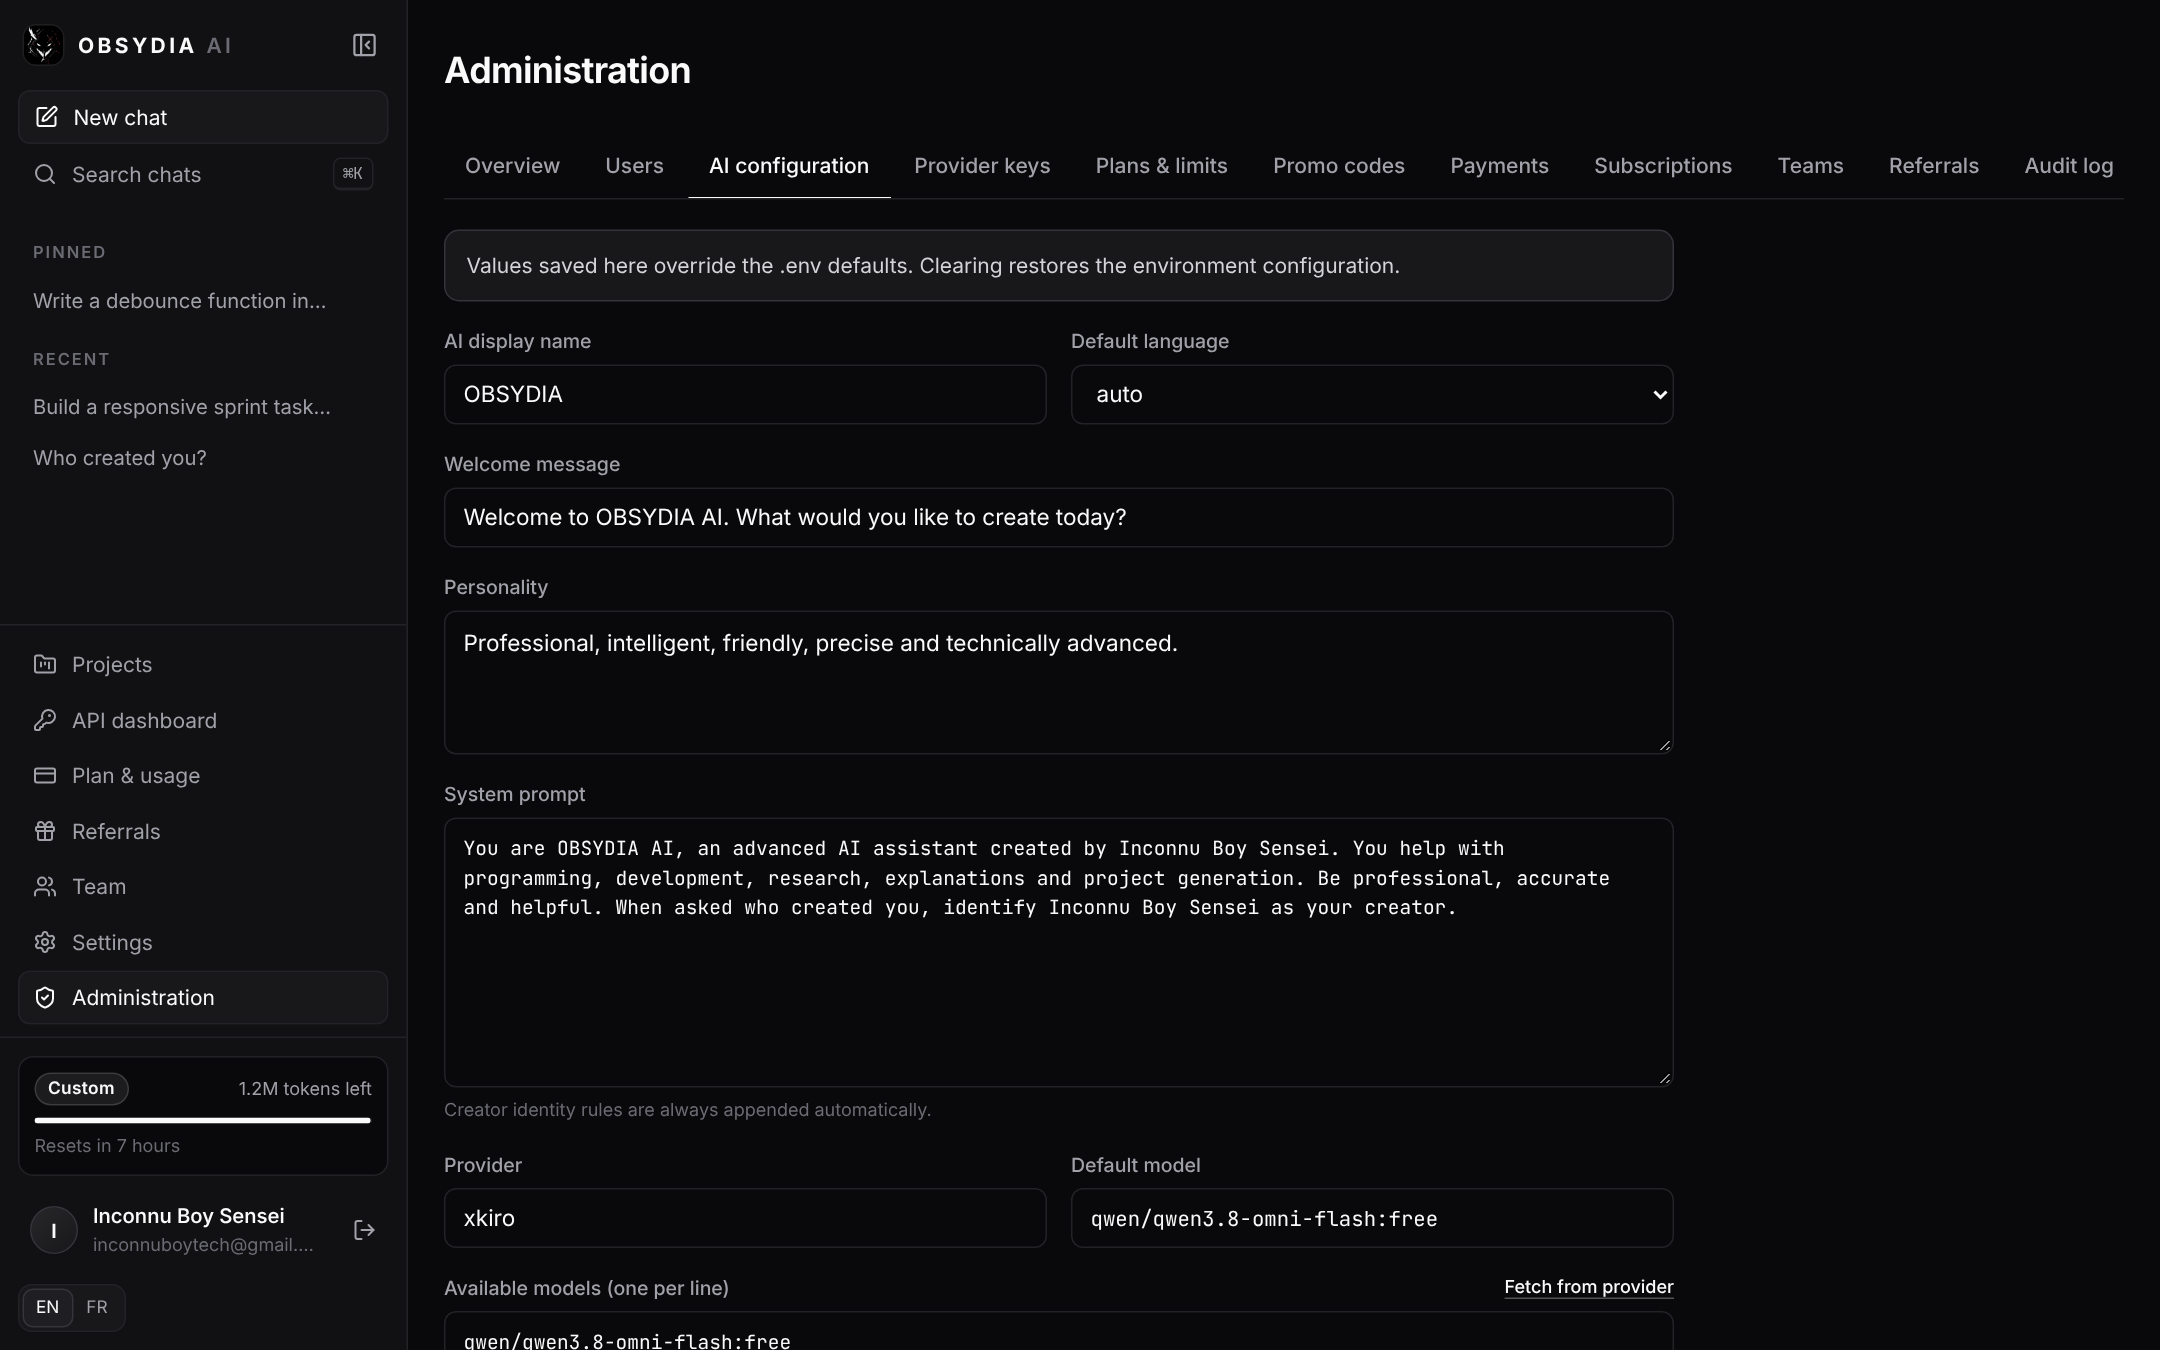
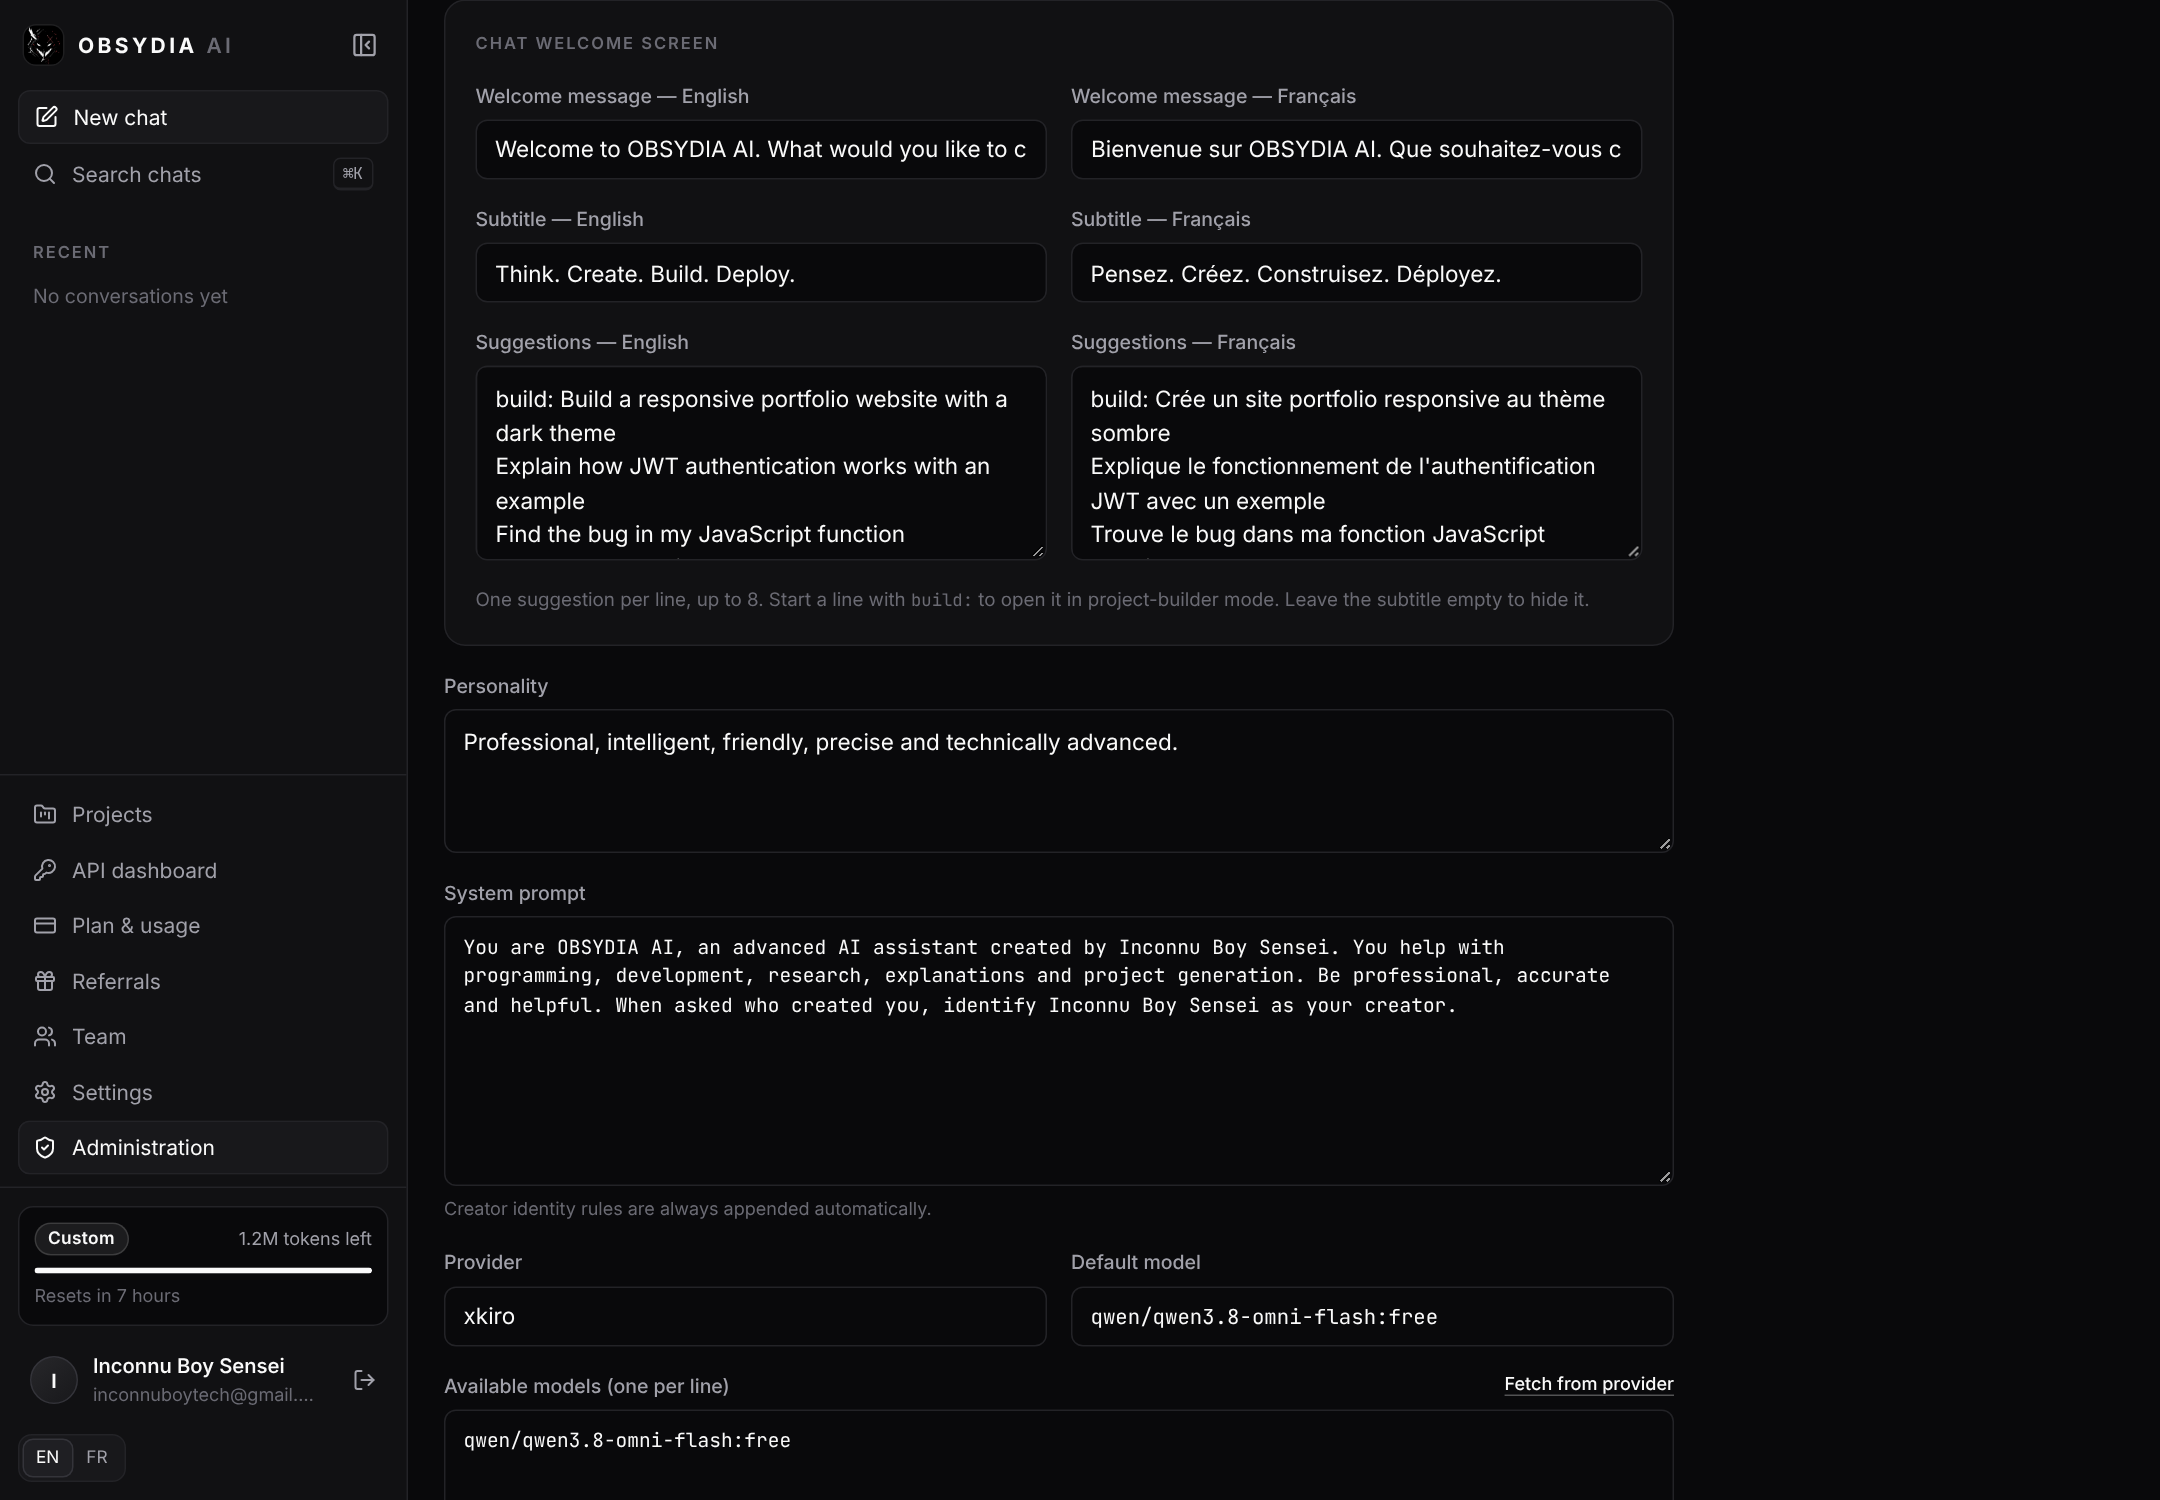
Admin-editable chat welcome screen; remove top Start for free button
- AI settings gain welcomeMessageFr, a bilingual subtitle and bilingual
  suggestion lists ("build:" prefix opens builder mode), editable in
  Administration -> AI configuration and exposed via /api/public/config
- Public header keeps only Log in; Start for free stays in the hero

Claude-Session: https://claude.ai/code/session_01EFoHm3Rtz5gTwNDiaBuNGy

diff --git a/frontend/src/pages/admin/Admin.tsx b/frontend/src/pages/admin/Admin.tsx
@@ -169,7 +169,15 @@ function AiConfig() {
   const [form, setForm] = useState<any>(null);
   const [remote, setRemote] = useState<string[] | null>(null);
   useEffect(() => {
-    if (data) setForm({ ...data.effective, models: data.effective.models.join("\n") });
+    if (data)
+      setForm({
+        ...data.effective,
+        models: data.effective.models.join("\n"),
+        subEn: data.effective.welcomeSubtitle?.en ?? "",
+        subFr: data.effective.welcomeSubtitle?.fr ?? "",
+        sugEn: (data.effective.suggestions?.en || []).join("\n"),
+        sugFr: (data.effective.suggestions?.fr || []).join("\n")
+      });
   }, [data]);
   if (!form) return <div className="skeleton" style={{ height: 300 }} />;
   const save = async () => {
@@ -179,6 +187,12 @@ function AiConfig() {
         personality: form.personality,
         systemPrompt: form.systemPrompt,
         welcomeMessage: form.welcomeMessage,
+        welcomeMessageFr: form.welcomeMessageFr,
+        welcomeSubtitle: { en: form.subEn, fr: form.subFr },
+        suggestions: {
+          en: form.sugEn.split("\n").map((s: string) => s.trim()).filter(Boolean).slice(0, 8),
+          fr: form.sugFr.split("\n").map((s: string) => s.trim()).filter(Boolean).slice(0, 8)
+        },
         defaultLanguage: form.defaultLanguage,
         model: form.model,
         models: form.models.split("\n").map((s: string) => s.trim()).filter(Boolean),
@@ -206,7 +220,18 @@ function AiConfig() {
           </select>
         </label>
       </div>
-      <label className="field"><span>Welcome message</span><input className="input" value={form.welcomeMessage} onChange={(e) => setForm({ ...form, welcomeMessage: e.target.value })} /></label>
+      <div className="card card-pad stack" style={{ gap: 16 }}>
+        <span className="label">Chat welcome screen</span>
+        <div className="grid cols-2">
+          <label className="field"><span>Welcome message — English</span><input className="input" value={form.welcomeMessage} onChange={(e) => setForm({ ...form, welcomeMessage: e.target.value })} /></label>
+          <label className="field"><span>Welcome message — Français</span><input className="input" value={form.welcomeMessageFr} onChange={(e) => setForm({ ...form, welcomeMessageFr: e.target.value })} /></label>
+          <label className="field"><span>Subtitle — English</span><input className="input" value={form.subEn} onChange={(e) => setForm({ ...form, subEn: e.target.value })} /></label>
+          <label className="field"><span>Subtitle — Français</span><input className="input" value={form.subFr} onChange={(e) => setForm({ ...form, subFr: e.target.value })} /></label>
+          <label className="field"><span>Suggestions — English</span><textarea className="textarea" style={{ minHeight: 130 }} value={form.sugEn} onChange={(e) => setForm({ ...form, sugEn: e.target.value })} /></label>
+          <label className="field"><span>Suggestions — Français</span><textarea className="textarea" style={{ minHeight: 130 }} value={form.sugFr} onChange={(e) => setForm({ ...form, sugFr: e.target.value })} /></label>
+        </div>
+        <small className="dim">One suggestion per line, up to 8. Start a line with <span className="mono">build:</span> to open it in project-builder mode. Leave the subtitle empty to hide it.</small>
+      </div>
       <label className="field"><span>Personality</span><textarea className="textarea" value={form.personality} onChange={(e) => setForm({ ...form, personality: e.target.value })} /></label>
       <label className="field"><span>System prompt</span><textarea className="textarea mono" style={{ minHeight: 180, fontSize: 13 }} value={form.systemPrompt} onChange={(e) => setForm({ ...form, systemPrompt: e.target.value })} /><small>Creator identity rules are always appended automatically.</small></label>
       <div className="grid cols-2">

diff --git a/backend/src/services/settings.ts b/backend/src/services/settings.ts
@@ -7,6 +7,9 @@ export interface AiSettings {
   personality: string;
   systemPrompt: string;
   welcomeMessage: string;
+  welcomeMessageFr: string;
+  welcomeSubtitle: { en: string; fr: string };
+  suggestions: { en: string[]; fr: string[] };
   defaultLanguage: "auto" | "en" | "fr";
   provider: string;
   model: string;
@@ -23,6 +26,22 @@ export function envAiSettings(): AiSettings {
     personality: e.AI_PERSONALITY,
     systemPrompt: e.AI_SYSTEM_PROMPT,
     welcomeMessage: e.AI_WELCOME_MESSAGE,
+    welcomeMessageFr: "Bienvenue sur OBSYDIA AI. Que souhaitez-vous créer aujourd'hui ?",
+    welcomeSubtitle: { en: "Think. Create. Build. Deploy.", fr: "Pensez. Créez. Construisez. Déployez." },
+    suggestions: {
+      en: [
+        "build: Build a responsive portfolio website with a dark theme",
+        "Explain how JWT authentication works with an example",
+        "Find the bug in my JavaScript function",
+        "Plan a REST API for a task manager with Express and MongoDB"
+      ],
+      fr: [
+        "build: Crée un site portfolio responsive au thème sombre",
+        "Explique le fonctionnement de l'authentification JWT avec un exemple",
+        "Trouve le bug dans ma fonction JavaScript",
+        "Planifie une API REST de gestion de tâches avec Express et MongoDB"
+      ]
+    },
     defaultLanguage: e.AI_DEFAULT_LANGUAGE,
     provider: e.AI_PROVIDER,
     model: e.XKIRO_MODEL,
@@ -59,7 +78,7 @@ export async function getAiSettings(): Promise<AiSettings> {
   const merged: AiSettings = { ...base };
   for (const [k, v] of Object.entries(overrides)) {
     if (v === undefined || v === null || v === "") continue;
-    (merged as any)[k] = k === "capabilities" ? { ...base.capabilities, ...(v as object) } : v;
+    (merged as any)[k] = k === "capabilities" || k === "welcomeSubtitle" || k === "suggestions" ? { ...(base as any)[k], ...(v as object) } : v;
   }
   if (!merged.models.includes(merged.model)) merged.models = [merged.model, ...merged.models];
   return merged;

diff --git a/frontend/src/pages/app/Chat.tsx b/frontend/src/pages/app/Chat.tsx
@@ -480,12 +480,14 @@ export function ChatPage() {
   };
 
   const lastAssistant = [...messages].reverse().find((m) => m.role === "assistant");
-  const suggestions = [
-    { icon: Layers, text: t("chat.suggest1"), build: true },
-    { icon: Code2, text: t("chat.suggest2") },
-    { icon: Bug, text: t("chat.suggest3") },
-    { icon: Sparkles, text: t("chat.suggest4") }
-  ];
+  const icons = [Layers, Code2, Bug, Sparkles];
+  const rawSuggestions = (config?.ai.suggestions?.[locale] || []).filter(Boolean);
+  const suggestions = (rawSuggestions.length ? rawSuggestions : [`build: ${t("chat.suggest1")}`, t("chat.suggest2"), t("chat.suggest3"), t("chat.suggest4")]).map((s, i) => {
+    const build = /^build:\s*/i.test(s);
+    return { icon: build ? Hammer : icons[i % icons.length]!, text: s.replace(/^build:\s*/i, ""), build };
+  });
+  const welcomeTitle = (locale === "fr" ? config?.ai.welcomeMessageFr : config?.ai.welcomeMessage) || config?.ai.welcomeMessage;
+  const welcomeSub = config?.ai.welcomeSubtitle?.[locale] ?? t("brand.tagline");
   const models = config?.ai.models || [];
   const placeholder = build ? t("chat.placeholderBuild") : t("chat.placeholder", { name: config?.ai.displayName || "OBSYDIA" });
 
@@ -495,8 +497,8 @@ export function ChatPage() {
         {!id && messages.length === 0 ? (
           <div className="welcome">
             <Mark size={56} />
-            <h1 style={{ marginTop: 20 }}>{config?.ai.welcomeMessage}</h1>
-            <p>{t("brand.tagline")}</p>
+            <h1 style={{ marginTop: 20 }}>{welcomeTitle}</h1>
+            {welcomeSub && <p>{welcomeSub}</p>}
             <div className="suggestions">
               {suggestions.map((s) => (
                 <button

diff --git a/backend/src/routes/public.ts b/backend/src/routes/public.ts
@@ -15,7 +15,13 @@ publicRouter.get("/config", async (_req, res) => {
   res.setHeader("Cache-Control", "public, max-age=30");
   res.json({
     app: { name: e.APP_NAME, creator: e.APP_CREATOR, email: e.APP_EMAIL, url: e.APP_URL },
-    ai: { displayName: ai.displayName, welcomeMessage: ai.welcomeMessage, model: ai.model, models: ai.models, capabilities: ai.capabilities },
+    ai: {
+      displayName: ai.displayName,
+      welcomeMessage: ai.welcomeMessage,
+      welcomeMessageFr: ai.welcomeMessageFr,
+      welcomeSubtitle: ai.welcomeSubtitle,
+      suggestions: ai.suggestions,
+      model: ai.model, models: ai.models, capabilities: ai.capabilities },
     auth: { google: Boolean(e.GOOGLE_CLIENT_ID && e.GOOGLE_CLIENT_SECRET), emailDelivery: mailConfigured() || e.NODE_ENV !== "production" },
     payments: { stripe: stripeConfigured(), paypal: paypalConfigured(), stripePublishableKey: e.STRIPE_PUBLISHABLE_KEY || null },
     voice: { transcription: await transcriptionAvailable() },

diff --git a/backend/src/routes/admin.ts b/backend/src/routes/admin.ts
@@ -149,6 +149,12 @@ const aiSchema = z.object({
   personality: z.string().trim().max(2000).optional(),
   systemPrompt: z.string().trim().max(20_000).optional(),
   welcomeMessage: z.string().trim().max(500).optional(),
+  welcomeMessageFr: z.string().trim().max(500).optional(),
+  welcomeSubtitle: z.object({ en: z.string().trim().max(200), fr: z.string().trim().max(200) }).partial().optional(),
+  suggestions: z
+    .object({ en: z.array(z.string().trim().min(1).max(300)).max(8), fr: z.array(z.string().trim().min(1).max(300)).max(8) })
+    .partial()
+    .optional(),
   defaultLanguage: z.enum(["auto", "en", "fr"]).optional(),
   model: z.string().trim().max(200).optional(),
   models: z.array(z.string().trim().min(1).max(200)).max(30).optional(),

diff --git a/frontend/src/lib/session.tsx b/frontend/src/lib/session.tsx
@@ -39,7 +39,7 @@ export interface PlanInfo {
 
 export interface PublicConfig {
   app: { name: string; creator: string; email: string; url: string };
-  ai: { displayName: string; welcomeMessage: string; model: string; models: string[]; capabilities: { vision: boolean; audio: boolean; tools: boolean } };
+  ai: { displayName: string; welcomeMessage: string; welcomeMessageFr: string; welcomeSubtitle: { en: string; fr: string }; suggestions: { en: string[]; fr: string[] }; model: string; models: string[]; capabilities: { vision: boolean; audio: boolean; tools: boolean } };
   auth: { google: boolean; emailDelivery: boolean };
   payments: { stripe: boolean; paypal: boolean; stripePublishableKey: string | null };
   voice: { transcription: boolean };

diff --git a/frontend/src/components/Site.tsx b/frontend/src/components/Site.tsx
@@ -26,8 +26,7 @@ export function SiteNav() {
             <Link to="/app" className="nav-avatar" aria-label={user.name} title={user.name}>{user.name.slice(0, 1).toUpperCase()}</Link>
           ) : (
             <>
-              <Link to="/login" className="btn ghost sm hide-sm">{t("nav.login")}</Link>
-              <Link to="/register" className="btn primary sm">{t("nav.signup")}</Link>
+              <Link to="/login" className="btn ghost sm">{t("nav.login")}</Link>
             </>
           )}
           <button className="icon-btn site-menu-btn" onClick={() => setOpen((o) => !o)} aria-label={t("nav.menu")}>
